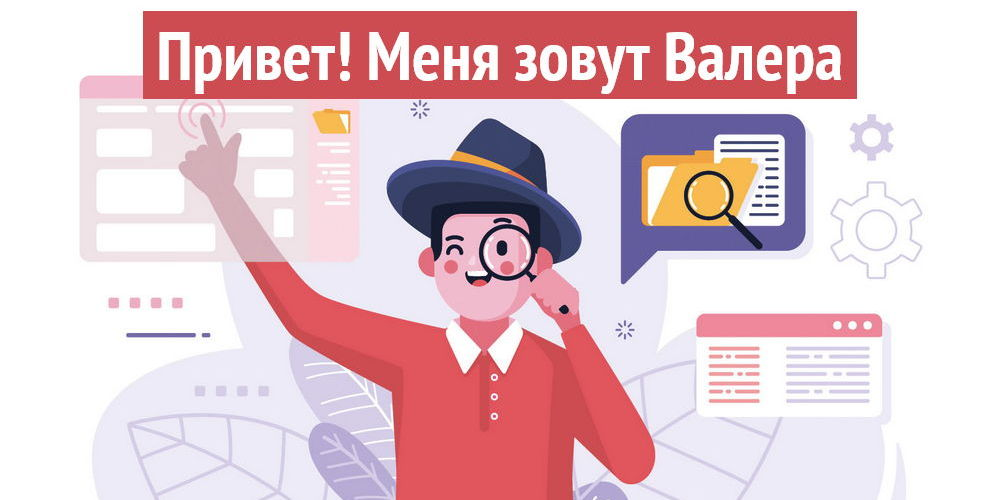
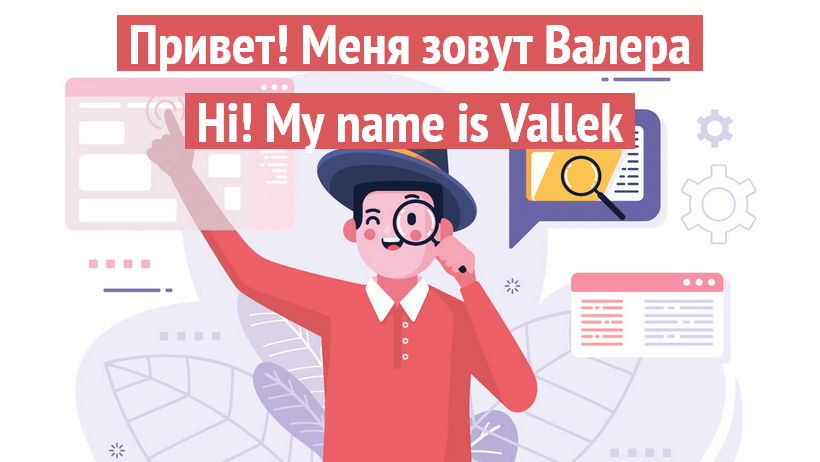
eng version

diff --git a/README.en-EN.md b/README.en-EN.md
@@ -1,37 +1,43 @@
-[![Vallek's GitHub Banner: Привет! Меня зовут Валера Hi! My name is Vallek.](./assets/github-header.jpg)](https://vallek.github.io/Portfolio/index.html)
+[![Vallek's GitHub Banner: Hi! My name is Vallek. Привет! Меня зовут Валера](./assets/github-header.jpg)](https://vallek.github.io/Portfolio/index.html)
 
 [![Twitter Badge](https://img.shields.io/badge/Twitter-profile-informational?style=flat&logo=twitter&logoColor=white&color=1CA2F1)](https://twitter.com/_vallek)
 [![Codepen Badge](https://img.shields.io/badge/CodePen-profile-informational?style=flat&logo=codepen&logoColor=white&color=black)](https://codepen.io/vallek)
 [![Youtube Badge](https://img.shields.io/badge/Youtube-channel-informational?style=flat&logo=twitter&logoColor=white&color=e60000)](https://www.youtube.com/channel/UCzS4sE_0ltfSz6qx_FUCTdA)
 
-[ENGLISH VERSION](README.en-EN.md)
+[RUSSIAN VERSION](README.md)
 
-Я занимаюсь **фронтендом** и **образованием**. Верстаю веб-интерфейсы. Умею делать адаптивную, современную и доступную верстку. Работаю автором курсов, лектором, наставником. Провожу консультации. Кроме того меня интересует всё, что касается дизайна, организации и планирования работы. Люблю все улучшать и искать решение проблем.
+I work in **frontend** and **education**. I create modern, responsive web UI and care about usability, accessibility and best practices. I lean more towards front-of-the-frontend developing CSS layouts. I prefer native technologies and static site builders for my pet projects. But I'm always ready to learn other skills and tools. 
 
-Вы можете узнать больше на моем [💎портфолио💎](https://vallek.github.io/Portfolio/index.html).
+I love to share my knowledge and help others to overcome various difficulties. I create courses, live lectures and other educational materials. My projects often touch both on education and web development. I also do consulting.
 
-## 🔎 Я ищу работу
-* фротендером, верстальщиком (front-of-the-frontend), консультантом
-* автором/руководителем курсов
+I like to scrutinize things, find problems and ways to fix them.
 
-## Языки
-* Русский (родной)
+My goal is to create user experience of high quality. In the future I'm planning to create my own web education organization. I'm also interested in everything about ui design, optimizing and planning work. 
+
+You can learn more about me on my [💎portfolio💎](https://vallek.github.io/Portfolio/index.html).
+
+## 🔎 I'm looking for a job
+* frontend, web dev, consulting
+* courses author/lead
+
+## Languages
+* Russian (native)
 * English (read specs, write, sometimes speak:)
 
-## 📈 Гитхаб Статистика
+## 📈 Github Stats
 <a href="https://github.com/Vallek">
   <img style="margin:0.5rem" src="https://github-readme-stats.vercel.app/api?username=vallek&hide_rank=true&show_icons=true&line_height=27&count_private=true&title_color=da575c&text_color=c9cacc&icon_color=da575c&bg_color=1A2B34" alt="Vallek's GitHub Stats">
 </a>
 
-## 📌 Мои проекты
+## 📌 My projects
 * [Animatable CSS Properties](https://vallek.github.io/animatable-css/)
-* [База знаний Web Dev Tips](https://github.com/Vallek/webdevtips)
-* [Веб компонент шапки](https://github.com/Vallek/vallek-custom-header)
-* [Подборка ссылок по фронтенду](https://vallek.github.io/web-links/index.html)
-* [Курс по фронтенду](https://vallek.github.io/Portfolio/pages/courses/web.html)
-* [Лекция Как эффективно искать информацию](https://vallek.github.io/Portfolio/pages/projects/search.html)
+* [Web Dev Tips Knowledge Base](https://github.com/Vallek/webdevtips)
+* [Header Web Component](https://github.com/Vallek/vallek-custom-header)
+* [Frontend Links](https://vallek.github.io/web-links/index.html)
+* [Frontend Course](https://vallek.github.io/Portfolio/pages/courses/web.html)
+* [How to search info on frontend lecture](https://vallek.github.io/Portfolio/pages/projects/search.html)
 
-## 💼 Основные навыки
+## 💼 Main skills
 [![](https://img.shields.io/badge/Code-HTML-informational?style=flat&logo=html5&logoColor=white&color=da575c)](https://vallek.github.io/Portfolio/pages/site/skills.html#html)
 [![](https://img.shields.io/badge/Code-CSS-informational?style=flat&logo=css3&logoColor=white&color=da575c)](https://vallek.github.io/Portfolio/pages/site/skills.html#html)
 [![](https://img.shields.io/badge/Code-JavaScript-informational?style=flat&logo=javascript&logoColor=white&color=da575c)](https://vallek.github.io/Portfolio/pages/site/skills.html#js)<br>
@@ -40,7 +46,5 @@
 [![](https://img.shields.io/badge/Tools-Figma-informational?style=flat&logo=figma&logoColor=white&color=da575c)](https://vallek.github.io/Portfolio/pages/site/skills.html#figma)
 [![](https://img.shields.io/badge/Tools-Jekyll-informational?style=flat&logo=jekyll&logoColor=white&color=da575c)](https://vallek.github.io/Portfolio/pages/site/skills.html#jekyll)
 
-*а также*: образование, поиск информации и английский язык
-
-## 💬 Хотите предложить мне работу или у вас есть вопрос?
-Свяжитесь со мной [по 📧 почте](mailto:vwebdis@gmail.com) или через [телеграм](https://t.me/webval). До встречи!
+## 💬 Want to offer me a job or have a question?
+Write me [an 📧 email](mailto:vwebdis@gmail.com) or text me on [telegram](https://t.me/webval). See you!
